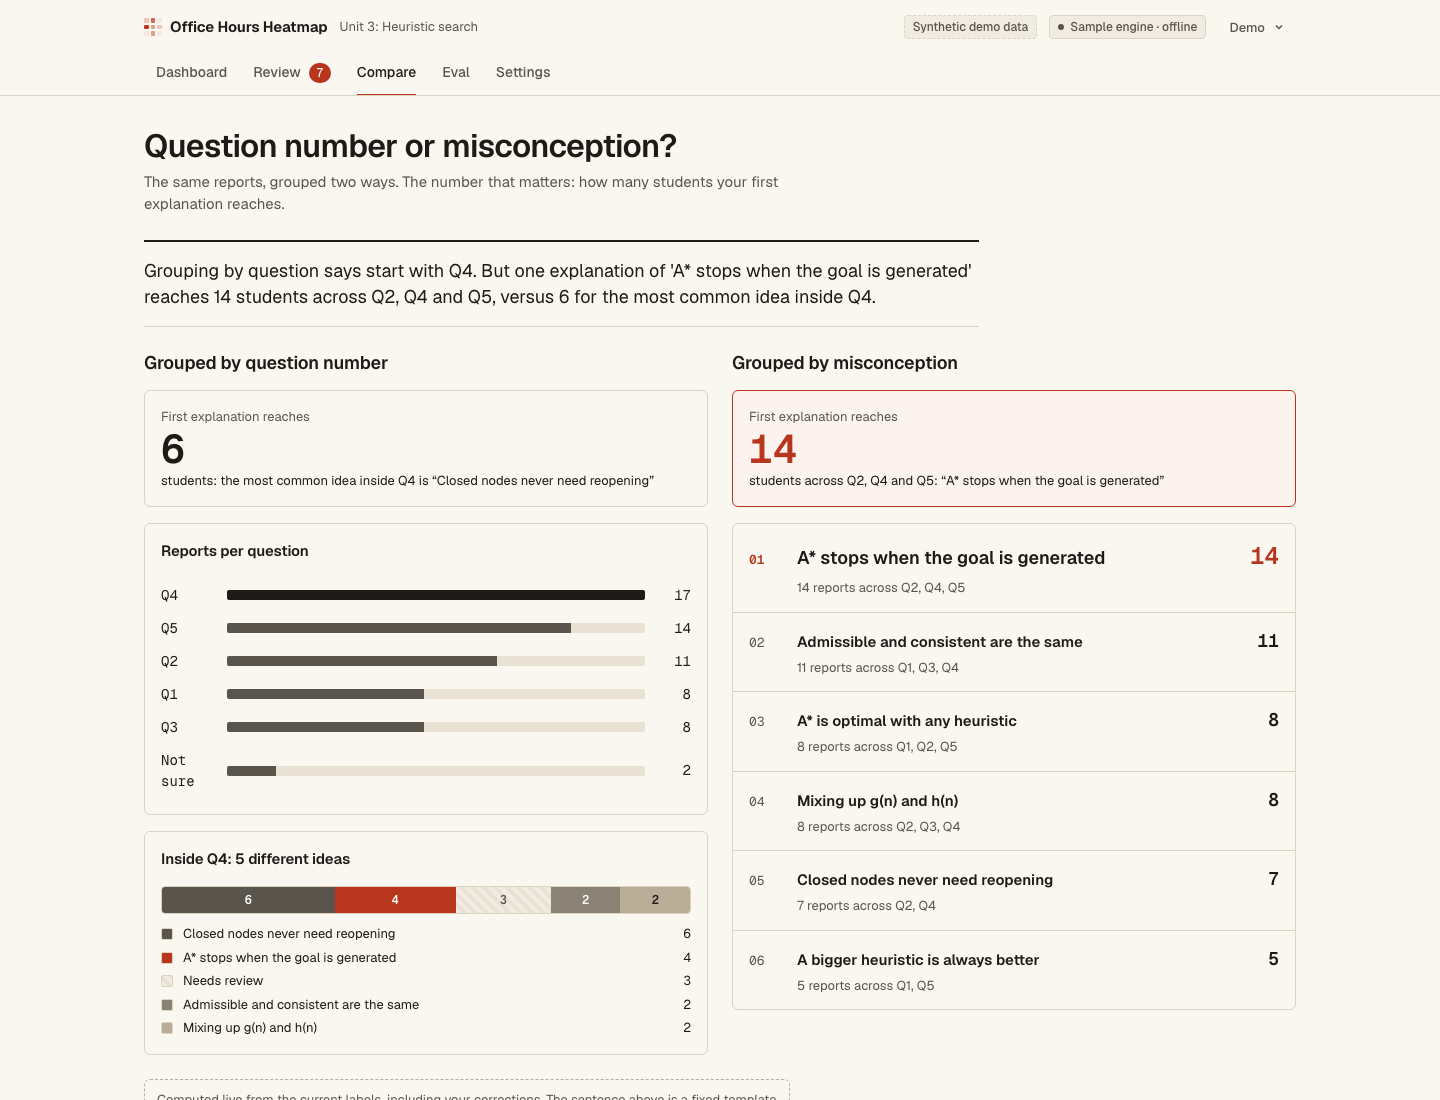
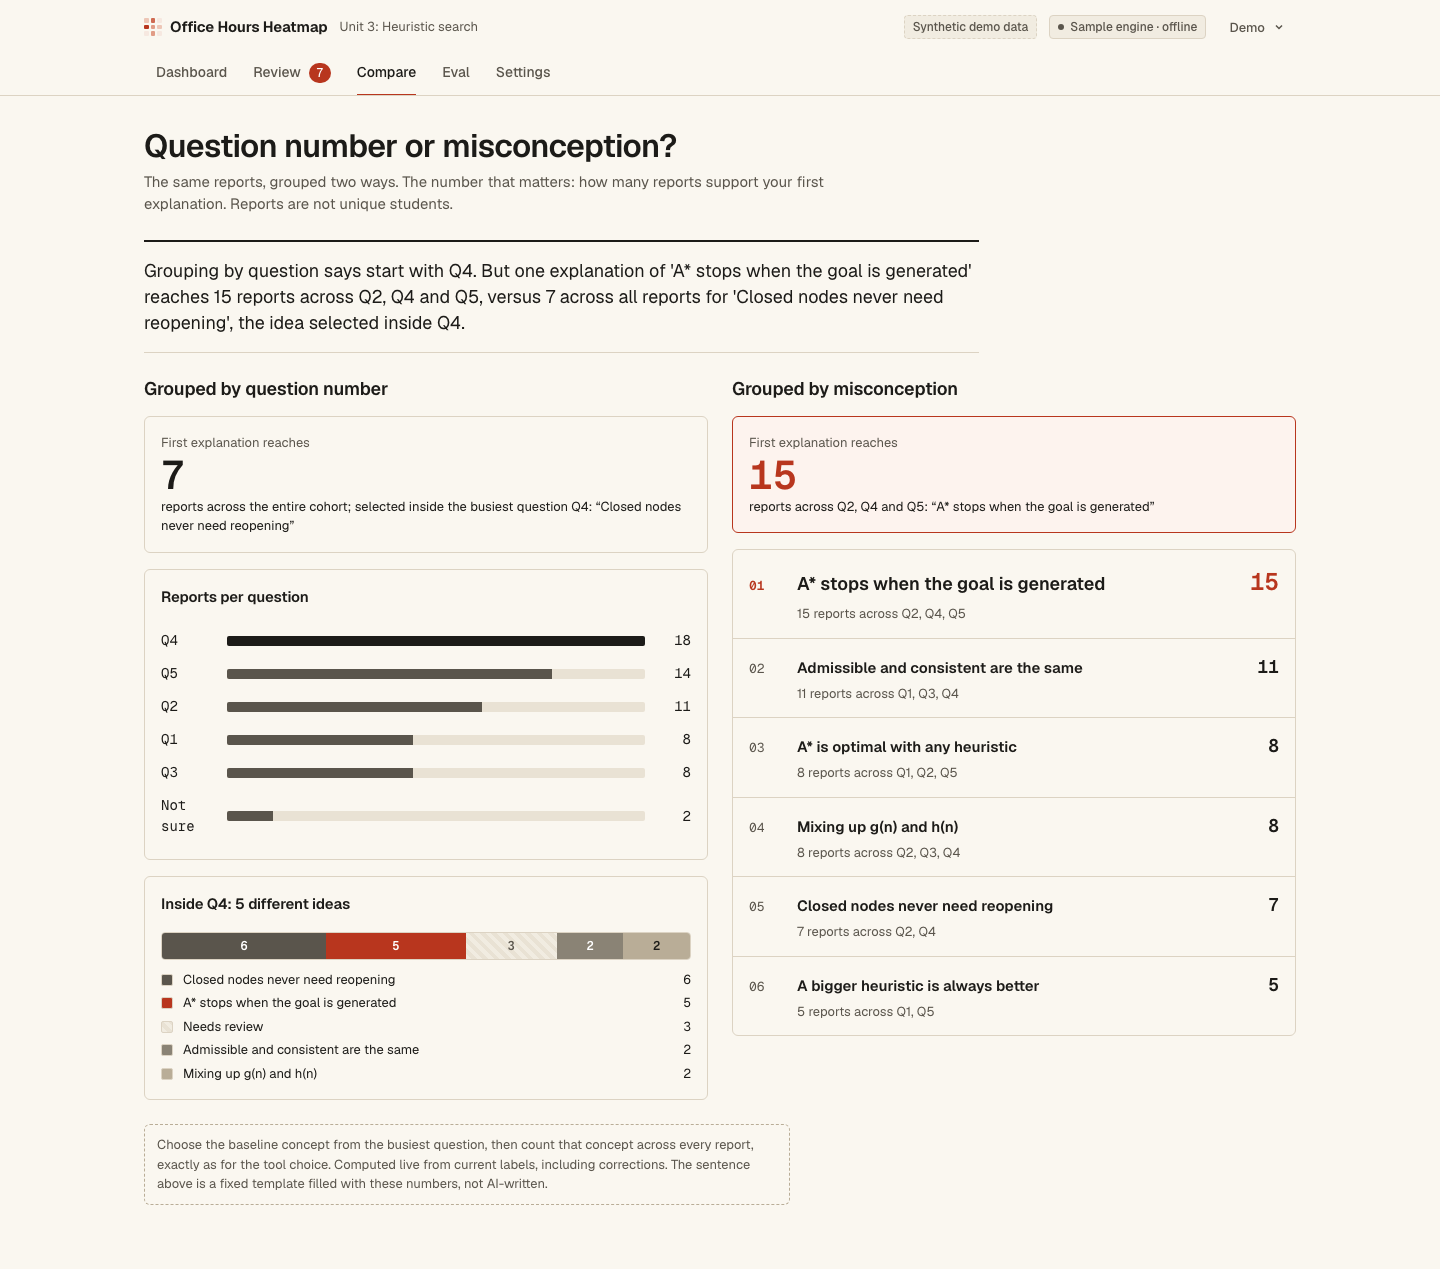
Refresh real app captures for fair comparison and explicit precision metrics

diff --git a/README.md b/README.md
@@ -37,7 +37,7 @@ by 6 reports inside Q4 and 7 across the entire cohort. Explaining "A* stops when
 
 | Compare view | Cluster detail |
 |---|---|
-| ![Compare: grouping by question reaches 6, grouping by misconception reaches 14](docs/images/compare.png) | ![Cluster detail with verbatim evidence underlined](docs/images/cluster.png) |
+| ![Compare: the question-selected explanation has 7 supporting reports across the cohort, versus 14 for the concept-selected explanation](docs/images/compare.png) | ![Cluster detail with verbatim evidence underlined and heuristic match support](docs/images/cluster.png) |
 
 | Review queue | Evaluation | Student form (390px) |
 |---|---|---|
